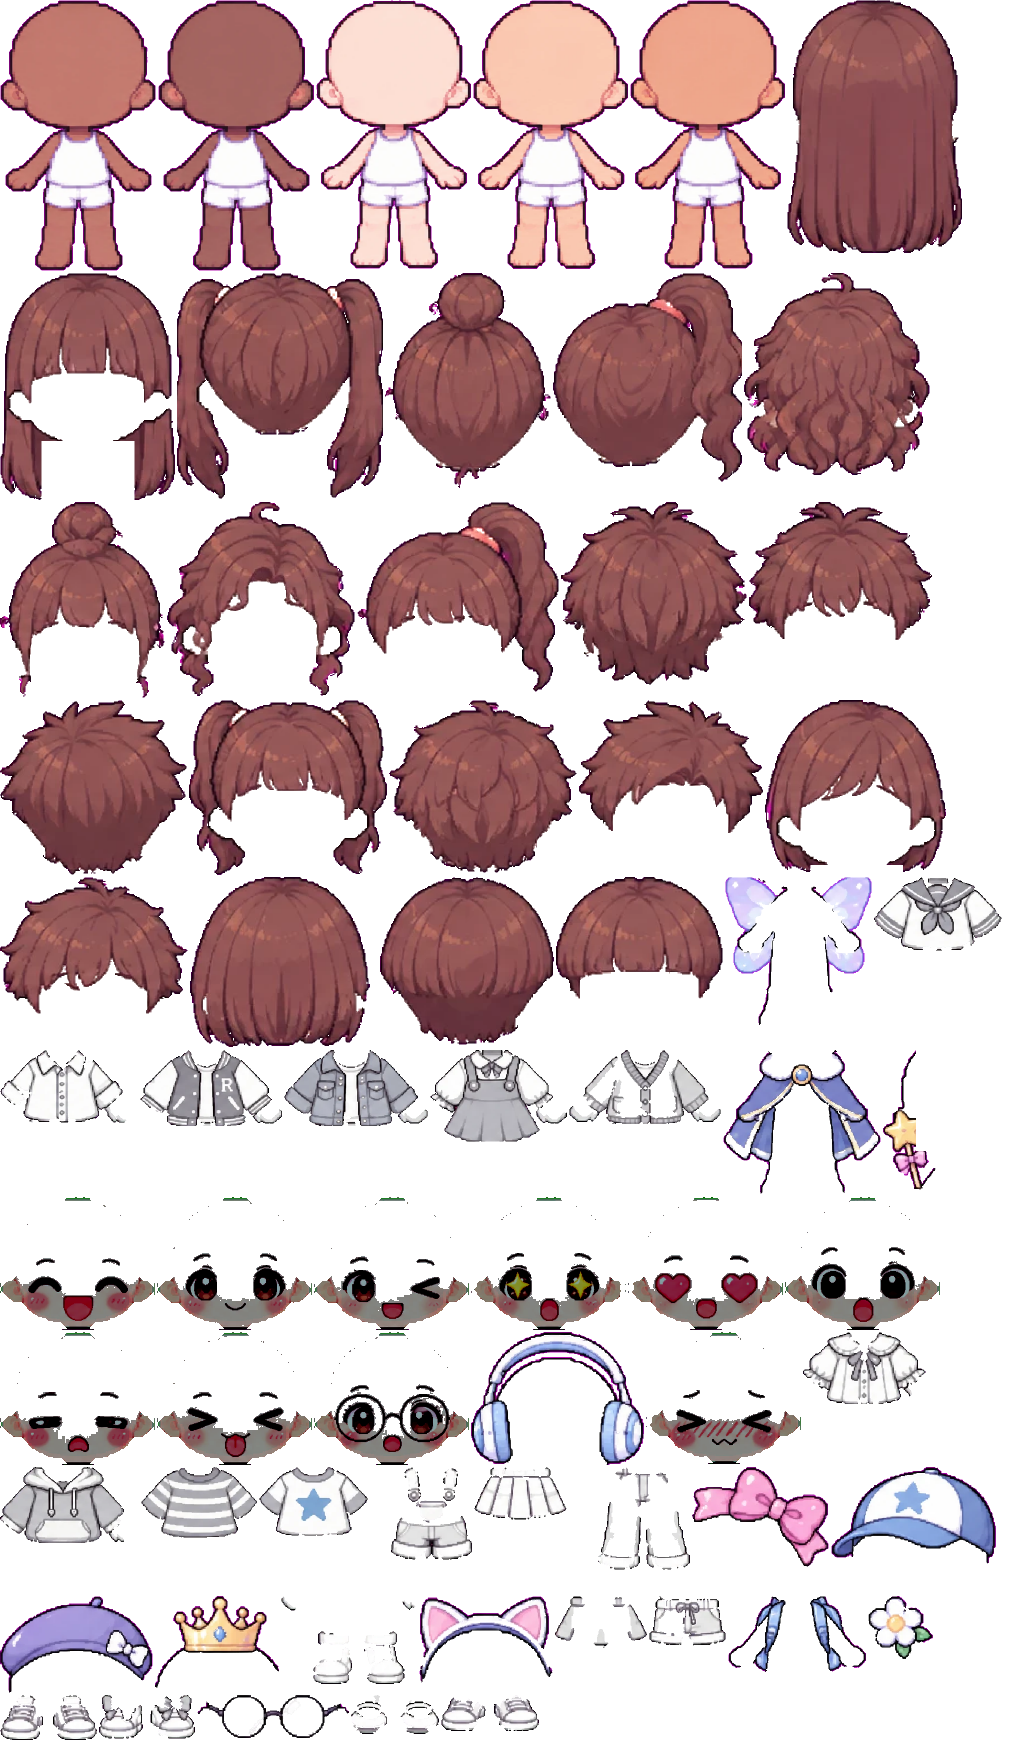
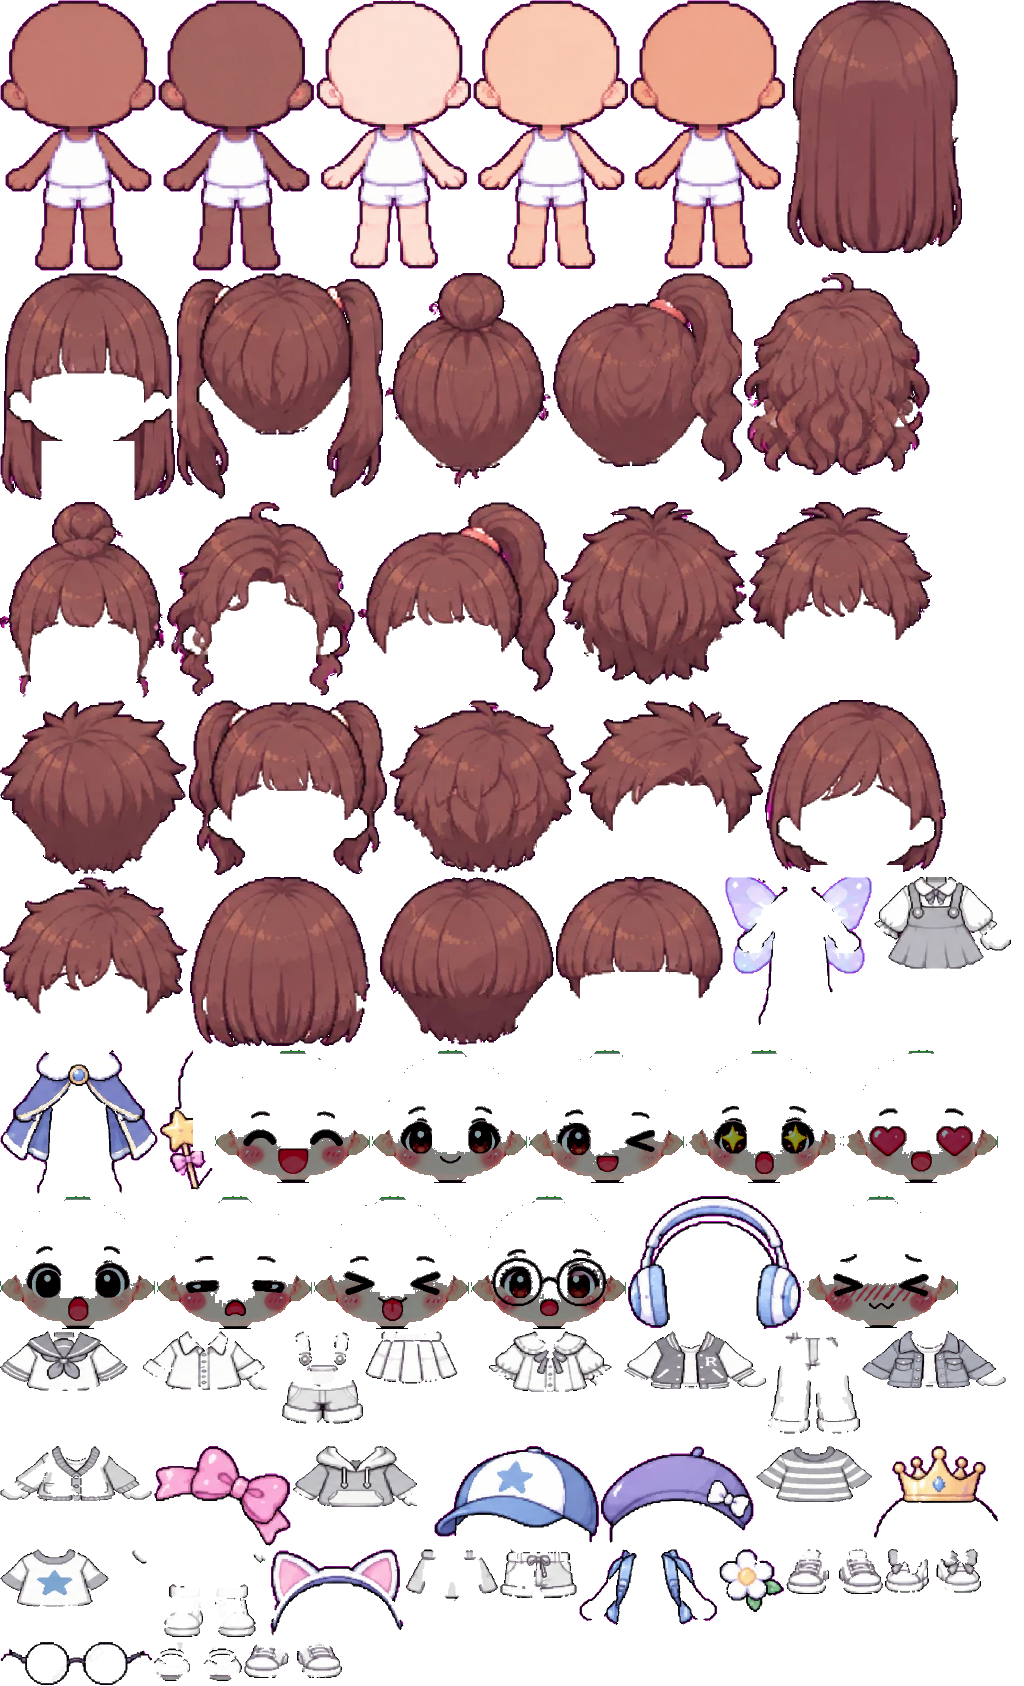
꼬마 탐험대: 색 고르기 대신 색이 입혀진 완성 부품, 윗옷 길이 줄이기
- 머리·윗옷·아래옷·신발마다 정해진 색을 입힌 완성 그림을 고른다 (색 고르기 판 없앰)
- 윗옷 가슴 아래를 줄여 밑단을 올려 아래옷이 잘 보이게
- sw v18, README

Claude-Session: https://claude.ai/code/session_01GaQn7MZBC3k4EEX7cEU7Dz

diff --git a/study/kkoma-park/chars.js b/study/kkoma-park/chars.js
@@ -16,9 +16,13 @@ export const ACCS = [
   ['동그란 안경', 'eye'], ['책가방', 'back'], ['나비 날개', 'back'], ['망토', 'back'], ['요술봉', 'hand'], ['꽃 핀', 'pin'],
 ];
 export const SLOTS = ['hat', 'pin', 'eye', 'back', 'hand'];
-// 색: -1 = 원래 색
-export const PALETTE = ['#ffffff', '#ff8b8b', '#ffb36b', '#ffe07a', '#a6dd78', '#6fd0c0', '#8cc8ff', '#5f7fe0', '#b79cff', '#ff9ccf', '#c89b72', '#6b5546', '#4a4d5e'];
-export const HAIR_PALETTE = ['#2b211e', '#5a3a28', '#c0703a', '#f0c85f', '#f2a7c0', '#e0565b', '#8a6fe0', '#5ab8c8', '#6bbf6b', '#c9c9d6'];
+// 부품마다 정해진 색 (null = 그림 원래 색). 색을 따로 고르지 않고, 색이 입혀진 완성 그림을 고른다
+const HAIR_COLORS = [null, '#2b211e', '#c0703a', '#3a2620', '#f0c85f', '#f2a7c0', null, '#2b211e', '#8a6fe0', '#c0703a'];
+const TOP_COLORS = [null, '#ff9ccf', '#8cc8ff', null, '#ffc9dc', '#6fb6ff', '#5f7fe0', '#7fa8e0', '#ffe07a', '#b79cff'];
+const BOT_COLORS = ['#5f7fe0', '#4a5a8a', '#ff9ccf', '#b79cff', '#7fa8e0'];
+const SHOE_COLORS = [null, '#e0565b', '#7a4a36', '#ffd24a', '#ff9ccf'];
+const COLORS = { hair: HAIR_COLORS, top: TOP_COLORS, bot: BOT_COLORS, shoe: SHOE_COLORS };
+const colorOf = (kind, i) => COLORS[kind][i] ?? null;
 
 // [아이디, 이름, 열쇠 수(0 = 처음부터)]
 export const PETS = [['none', '없음', 0], ['chick', '🐥 병아리', 1], ['puppy', '🐶 강아지', 4], ['kitty', '🐱 고양이', 7], ['turtle', '🐢 거북이', 12], ['dragon', '🐉 아기 용', 18]];
@@ -56,10 +60,7 @@ export function randomLook(keys = 0, rnd = Math.random) {
   const pets = PETS.filter((x) => x[2] <= keys).map((x) => x[0]);
   const L = {
     v: 4, skin: Math.floor(rnd() * SKINS.length), face: pick(openIdx('face', keys)), hair: pick(openIdx('hair', keys)),
-    hc: rnd() < 0.5 ? -1 : Math.floor(rnd() * HAIR_PALETTE.length),
-    top: pick(openIdx('top', keys)), tc: rnd() < 0.4 ? -1 : Math.floor(rnd() * PALETTE.length),
-    bot: pick(openIdx('bot', keys)), bc: rnd() < 0.4 ? -1 : Math.floor(rnd() * PALETTE.length),
-    shoe: pick(openIdx('shoe', keys)), sc: -1,
+    top: pick(openIdx('top', keys)), bot: pick(openIdx('bot', keys)), shoe: pick(openIdx('shoe', keys)),
     hat: -1, pin: -1, eye: -1, back: -1, hand: -1,
     pet: rnd() < 0.5 ? 'none' : pick(pets), job: 'none',
   };
@@ -79,15 +80,14 @@ export function cleanLook(l = {}, keys = 99, jobs = null) {
   const int = (v, n, d) => (Number.isInteger(v) && v >= -1 && v < n ? v : d);
   const part = (kind, v) => { const i = int(v, PART_KINDS[kind].length, 0); return i >= 0 && partOpen(kind, i, keys) ? i : 0; };
   const L = {
-    v: 4, skin: Math.max(0, int(base.skin, SKINS.length, 0)), face: part('face', base.face), hair: part('hair', base.hair), hc: int(base.hc, HAIR_PALETTE.length, -1),
-    top: part('top', base.top), tc: int(base.tc, PALETTE.length, -1), bot: part('bot', base.bot), bc: int(base.bc, PALETTE.length, -1),
-    shoe: part('shoe', base.shoe), sc: int(base.sc, PALETTE.length, -1),
+    v: 4, skin: Math.max(0, int(base.skin, SKINS.length, 0)), face: part('face', base.face), hair: part('hair', base.hair),
+    top: part('top', base.top), bot: part('bot', base.bot), shoe: part('shoe', base.shoe),
     pet: lock(PETS, l.pet), job: lock(JOB_BADGES, l.job),
   };
   for (const s of SLOTS) { const a = int(base[s], ACCS.length, -1); L[s] = a >= 0 && ACCS[a][1] === s && partOpen('acc', a, keys) ? a : -1; }
   return L;
 }
-export const lookColor = (L) => (L && L.tc >= 0 ? PALETTE[L.tc] : '#8cc8ff');
+export const lookColor = (L) => (L && colorOf('top', L.top)) || '#8cc8ff';
 
 // ---------- 그림 불러오기 ----------
 let META = null; let ATLAS = null; let ready = null;
@@ -173,24 +173,23 @@ function backHead(skin, hairColor) {
   const p = { c, x: b.x, y: b.y }; partCache.set(key, p); return p;
 }
 
-const colorOf = (pal, i) => (i >= 0 ? pal[i] : null);
 // look → 캔버스(CW×CH). view: 'front' | 'sideL'(왼쪽 보기 = 뒤집기) | 'back' | 'backL'
 const cache = new Map();
 export function drawChar(look, view = 'front') {
   if (!META) return null;
   const L = cleanLook(look);
   const flip = view === 'sideL' || view === 'backL'; const back = view === 'back' || view === 'backL';
-  const key = `${JSON.stringify([L.skin, L.face, L.hair, L.hc, L.top, L.tc, L.bot, L.bc, L.shoe, L.sc, L.hat, L.pin, L.eye, L.back, L.hand])}|${flip}|${back}`;
+  const key = `${JSON.stringify([L.skin, L.face, L.hair, L.top, L.bot, L.shoe, L.hat, L.pin, L.eye, L.back, L.hand])}|${flip}|${back}`;
   if (cache.has(key)) return cache.get(key);
   const c = mk(META.fw, META.fh); const g = c.getContext('2d'); g.imageSmoothingEnabled = false;
   if (flip) { g.translate(META.fw, 0); g.scale(-1, 1); }
   const put = (p) => { if (p) g.drawImage(p.c, p.x, p.y); };
-  const hc = colorOf(HAIR_PALETTE, L.hc);
+  const hc = colorOf('hair', L.hair);
   const hair = (n) => part(n, 'hair', hc);
   const cloth = () => {
-    put(part(`shoe${L.shoe}`, 'cloth', colorOf(PALETTE, L.sc)));
-    put(part(`bot${L.bot}`, 'cloth', colorOf(PALETTE, L.bc)));
-    put(part(`top${L.top}`, 'cloth', colorOf(PALETTE, L.tc)));
+    put(part(`shoe${L.shoe}`, 'cloth', colorOf('shoe', L.shoe)));
+    put(part(`bot${L.bot}`, 'cloth', colorOf('bot', L.bot)));
+    put(part(`top${L.top}`, 'cloth', colorOf('top', L.top)));
   };
   const acc = (s) => { if (L[s] >= 0) put(part(`acc${L[s]}`)); };
   if (!back) {
@@ -237,15 +236,15 @@ export function drawThumb(kind, i, look) {
     // 머리 부분만: 몸+표정(+머리)을 그려 목 위를 자른다
     const b = bodyWithFace(kind === 'skin' ? i : L.skin, kind === 'face' ? i : kind === 'skin' ? L.face : 0);
     const c = mk(META.fw, META.fh); const g = c.getContext('2d');
-    if (kind === 'hair') { const hb = part(`hb${i}`, 'hair', colorOf(HAIR_PALETTE, L.hc)); g.drawImage(hb.c, hb.x, hb.y); }
+    if (kind === 'hair') { const hb = part(`hb${i}`, 'hair', colorOf('hair', i)); g.drawImage(hb.c, hb.x, hb.y); }
     g.drawImage(b.c, b.x, b.y);
-    if (kind === 'hair') { const hf = part(`hf${i}`, 'hair', colorOf(HAIR_PALETTE, L.hc)); g.drawImage(hf.c, hf.x, hf.y); }
+    if (kind === 'hair') { const hf = part(`hf${i}`, 'hair', colorOf('hair', i)); g.drawImage(hf.c, hf.x, hf.y); }
     const headH = Math.round(b.c.height * 0.44);
     const top = kind === 'hair' ? Math.max(0, b.y - 30) : b.y;
     const out = mk(b.c.width + 30, b.y + headH - top); out.getContext('2d').drawImage(c, b.x - 15, top, out.width, out.height, 0, 0, out.width, out.height);
     return out;
   } else {
-    const col = { top: colorOf(PALETTE, L.tc), bot: colorOf(PALETTE, L.bc), shoe: colorOf(PALETTE, L.sc) }[kind] || null;
+    const col = kind === 'acc' ? null : colorOf(kind, i);
     src = part(`${kind}${i}`, kind === 'acc' ? '' : 'cloth', col);
   }
   if (!src) return null;

diff --git a/study/kkoma-park/app.js b/study/kkoma-park/app.js
@@ -4,7 +4,7 @@ import { SUBJECTS, SUBJECT, STAMPS_TO_FLY, puzzlesFor, finalPuzzles, JOBS, JOB, 
 import { ISLANDS } from './islands.js';
 import { openPuzzle } from './puzzles.js';
 import { Host, Client, EMOTES, cleanName } from './net.js';
-import { randomLook, cleanLook, CATS, SPECIALS, nextSpecial, loadChars, charsReady, drawChar, charBox, drawThumb, SKINS, FACES, HAIRS, TOPS, BOTTOMS, SHOES, ACCS, PALETTE, HAIR_PALETTE, PART_KINDS, partNeed, partOpen } from './chars.js';
+import { randomLook, cleanLook, CATS, SPECIALS, nextSpecial, loadChars, charsReady, drawChar, charBox, drawThumb, SKINS, FACES, HAIRS, TOPS, BOTTOMS, SHOES, ACCS, PART_KINDS, partNeed, partOpen } from './chars.js';
 loadChars().catch(() => {});
 import { makeStore } from '../../pe/common/sound.js';
 import { unlockAudio, sfx, speak, speakNow, hush, sound, setSound, bgm } from './audio.js';
@@ -63,7 +63,7 @@ const saveLook = () => store.set(`look.${me.name}`, JSON.stringify(me.look));
 // ============================================================
 // 캐릭터 꾸미기 화면
 // ============================================================
-const dresser = { onDone: null, mode: 'start', r: null, view: 0, paint: 'top' };
+const dresser = { onDone: null, mode: 'start', r: null, view: 0 };
 const VIEWS = ['front', 'sideL', 'back'];
 // 미리보기: 받침대 위의 큰 캐릭터. 누르면 앞 → 옆 → 뒤로 돌려 본다
 function setupPreview() {
@@ -101,8 +101,6 @@ function setupPreview() {
   requestAnimationFrame(loop);
 }
 function refreshPreview() { /* 그림은 매 화면마다 다시 그린다 */ }
-// 색칠할 수 있는 것: [이름, look 의 색 칸, 팔레트]
-const PAINT = { hair: ['머리', 'hc', HAIR_PALETTE], top: ['윗옷', 'tc', PALETTE], bot: ['아래옷', 'bc', PALETTE], shoe: ['신발', 'sc', PALETTE] };
 // 꾸미기 판: [제목 아이콘, 제목, [[종류, 이름 목록], ...]]
 const PANELS = [
   ['🎨', '피부색', [['skin', SKINS]]],
@@ -115,7 +113,6 @@ const PANELS = [
 const isOn = (kind, i) => (kind === 'acc' ? me.look[ACCS[i][1]] === i : me.look[kind] === i);
 function pickPart(kind, i) {
   if (kind === 'acc') { const slot = ACCS[i][1]; me.look[slot] = me.look[slot] === i ? -1 : i; } else me.look[kind] = i;
-  if (PAINT[kind]) dresser.paint = kind;
   if (kind === 'acc' && me.look[ACCS[i][1]] === i && dresser.view === 2 && ACCS[i][1] === 'eye') dresser.view = 0;
   sfx.pop(); renderDresser();
 }
@@ -163,17 +160,8 @@ function renderDresser() {
     });
     panel.append(row); body.append(panel);
   }
-  renderPalette();
   const nx = nextSpecial(prog.keys);
   $('av-keys').innerHTML = `🗝 모은 열쇠 <b>${prog.keys}</b>개<br>${nx ? `다음에 열리는 것: ${esc(nx.label)} (열쇠 ${nx.need}개)` : '🎉 꾸미기와 친구를 모두 열었어요!'}`;
-}
-// 색 고르기: 머리·윗옷·아래옷·신발 중 하나를 골라 색을 바꾼다
-function renderPalette() {
-  const el = $('av-palette'); const [name, key, pal] = PAINT[dresser.paint];
-  el.innerHTML = `<div class="pal-tabs">${Object.entries(PAINT).map(([k, v]) => `<button type="button" data-paint="${k}" aria-pressed="${k === dresser.paint}">${v[0]}</button>`).join('')}</div>
-    <div class="pal-row" aria-label="${esc(name)} 색"><button type="button" class="pal-orig" data-c="-1" aria-pressed="${me.look[key] === -1}" title="원래 색">원래</button>${pal.map((c, i) => `<button type="button" data-c="${i}" style="background:${c}" aria-label="${esc(name)} 색 ${i + 1}" aria-pressed="${me.look[key] === i}"></button>`).join('')}</div>`;
-  el.querySelectorAll('[data-paint]').forEach((b) => b.addEventListener('click', () => { dresser.paint = b.dataset.paint; sfx.pop(); renderPalette(); }));
-  el.querySelectorAll('[data-c]').forEach((b) => b.addEventListener('click', () => { me.look[key] = Number(b.dataset.c); sfx.pop(); renderDresser(); }));
 }
 function flashKeys(text) { const k = $('av-keys'); const old = k.innerHTML; k.innerHTML = text; k.style.background = '#ffe0d9'; setTimeout(() => { k.style.background = ''; renderDresser(); void old; }, 2200); }
 $('av-random').addEventListener('click', () => { me.look = randomLook(prog.keys); sfx.good(3); renderDresser(); refreshPreview(); });
@@ -305,7 +293,7 @@ function startGame(how) {
 }
 
 // ---------------- 안내하는 탐험대장 토리 ----------------
-const GUIDE_LOOK = { v: 4, skin: 1, face: 0, hair: 0, hc: -1, top: 0, tc: -1, bot: 0, bc: 1, shoe: 0, sc: -1, hat: 0, pin: -1, eye: -1, back: 7, hand: -1, pet: 'none', job: 'none' }; // 야구모자 탐험대장
+const GUIDE_LOOK = { v: 4, skin: 1, face: 0, hair: 0, top: 0, bot: 0, shoe: 0, hat: 0, pin: -1, eye: -1, back: 7, hand: -1, pet: 'none', job: 'none' }; // 야구모자 탐험대장
 function guideLines() {
   return [
     ['👋', `안녕, ${me.name}! 나는 꼬마 탐험대의 대장, 토리야. 꼬마 탐험대 공원에 온 걸 환영해!`],

diff --git a/study/kkoma-park/style.css b/study/kkoma-park/style.css
@@ -79,14 +79,6 @@ button.opt:active, .opt-main:active { transform: translateY(3px); }
 .partpick button.locked { background: #ece8f5; }
 .partpick button.locked canvas { filter: grayscale(1) brightness(0.6); opacity: 0.5; }
 .partpick button.locked::after { content: attr(data-need); position: absolute; left: 50%; bottom: 2px; transform: translateX(-50%); padding: 0 5px; border-radius: 999px; background: #6b56b8; color: #fff; font-size: 11px; white-space: nowrap; }
-.av-palette { background: #f6f2ff; border: 4px solid #b9a6ee; border-radius: 20px; padding: 8px; display: flex; flex-direction: column; gap: 6px; }
-.pal-tabs { display: flex; gap: 4px; }
-.pal-tabs button { flex: 1; border: 3px solid #ddd3fb; border-radius: 12px; background: #fff; font-size: 15px; padding: 3px 0; }
-.pal-tabs button[aria-pressed="true"] { background: #8a6fe0; border-color: #8a6fe0; color: #fff; }
-.pal-row { display: grid; grid-template-columns: repeat(7, 1fr); gap: 5px; }
-.pal-row button { aspect-ratio: 1; border-radius: 10px; border: 3px solid #fff; box-shadow: 0 0 0 1px #c9bdf0; cursor: pointer; padding: 0; }
-.pal-row button[aria-pressed="true"] { border-color: var(--brown); box-shadow: 0 0 0 3px var(--gold); }
-.pal-row .pal-orig { background: conic-gradient(#ff8b8b, #ffe07a, #a6dd78, #8cc8ff, #b79cff, #ff8b8b); font-size: 11px; color: #3b2a1a; text-shadow: 0 0 3px #fff; }
 .unlock-char { display: flex; flex-direction: column; align-items: center; gap: 2px; padding: 6px 10px; border-radius: 18px; background: #fff3c4; border: 4px solid var(--gold); font-size: 17px; }
 .unlock-char canvas { height: 120px; image-rendering: pixelated; }
 .thumbs { display: grid; grid-template-columns: repeat(auto-fill, minmax(64px, 1fr)); gap: 8px; }

diff --git a/study/kkoma-park/index.html b/study/kkoma-park/index.html
@@ -68,7 +68,6 @@
           <div class="av-left">
             <div class="av-stage"><canvas id="av-canvas" aria-label="내 캐릭터 미리보기"></canvas></div>
             <div class="av-name" id="av-name">별빛토끼</div>
-            <div class="av-palette" id="av-palette"></div>
             <button type="button" id="av-random" class="btn-soft">🎲 아무거나</button>
             <div class="av-keys" id="av-keys"></div>
           </div>

diff --git a/study/kkoma-park/sw.js b/study/kkoma-park/sw.js
@@ -1,7 +1,7 @@
 // 앱 파일을 기기에 담아 두어 인터넷이 없어도 열리게 한다.
 // 3D 엔진·연결 프로그램·주아체 글꼴은 vendor/ 에 있다. 글꼴 조각과 튼튼 운동장의 몸 인식 엔진은 처음 쓸 때 담아 둔다.
 const PREFIX = 'yeolsoe-';
-const CACHE = `${PREFIX}v17`;
+const CACHE = `${PREFIX}v18`;
 const FILES = [
   './',
   './index.html',

diff --git a/study/kkoma-park/README.md b/study/kkoma-park/README.md
@@ -7,7 +7,7 @@
 
 ## 어떻게 놀아요?
 
-1. 별명과 학년을 고르고, **나만의 픽셀아트 캐릭터를 만들어요**: 피부색 5 · 얼굴 표정 10 · 머리 스타일 10 · 윗옷 10 · 아래옷 5 · 신발 5 · 모자와 소품 12 가지를 골라 입히고, 머리·윗옷·아래옷·신발 색도 바꿔요 (같이 다니는 친구·직업 배지도 골라요). 캐릭터를 누르면 앞·옆·뒷모습을 볼 수 있고, 마을에서는 걷는 방향에 따라 옆모습·뒷모습이 돼요.
+1. 별명과 학년을 고르고, **나만의 픽셀아트 캐릭터를 만들어요**: 피부색 5 · 얼굴 표정 10 · 머리 스타일 10 · 윗옷 10 · 아래옷 5 · 신발 5 · 모자와 소품 12 가지를 골라 입혀요. 옷과 머리는 저마다 색이 입혀진 완성 그림이에요 (같이 다니는 친구·직업 배지도 골라요). 캐릭터를 누르면 앞·옆·뒷모습을 볼 수 있고, 마을에서는 걷는 방향에 따라 옆모습·뒷모습이 돼요.
 2. 가운데 **분수 광장 섬**에서 출발해 나무다리를 건너 각 섬으로 가요. 반짝이는 문으로 들어가면 건물 안 놀이방에서 동물 친구가 반겨 줘요. 오른쪽 위 **작은 지도**에서 건물 그림을 누르면 그 건물 앞으로 바로 가요.
 3. 놀이방마다 **보물 상자 3개**의 문제를 풀면 🗝 **열쇠**가 나타나요.
    - 처음 깬 건물은 **탐험 수첩에 도장**이 찍혀요.
